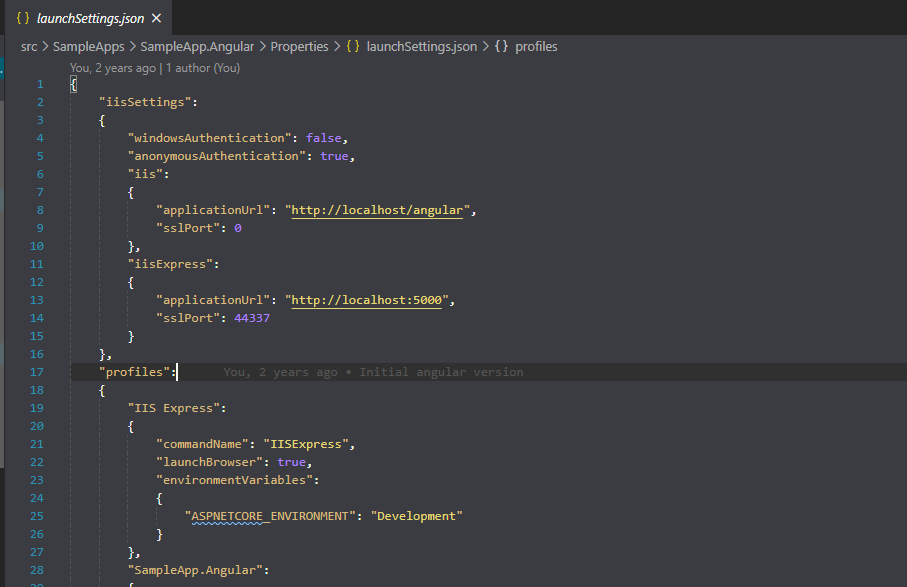
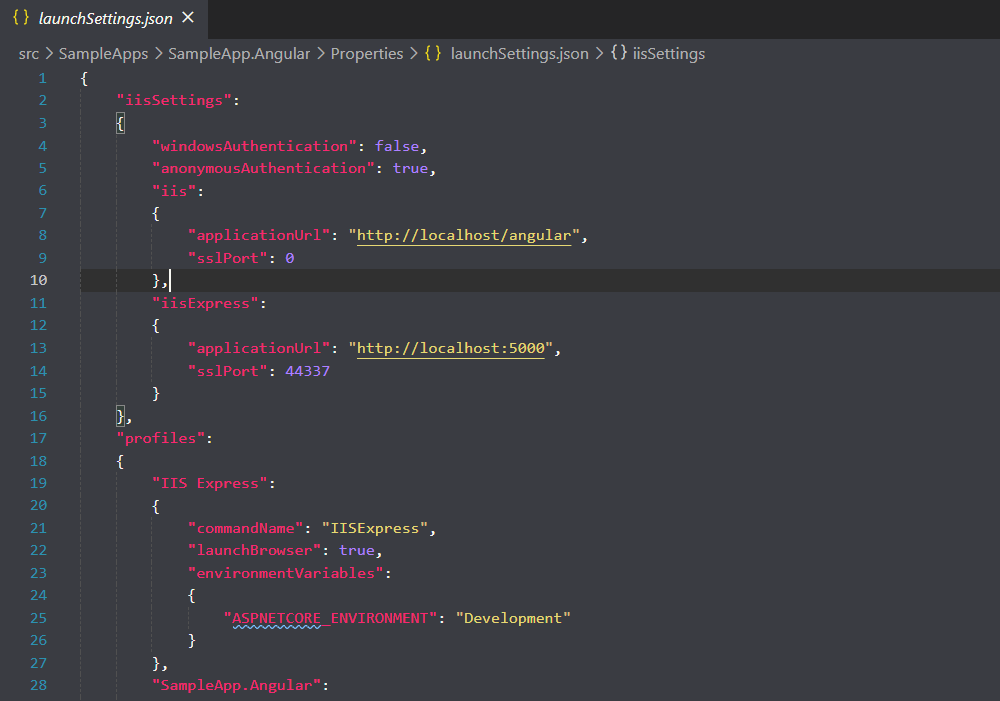
Version, changelog set
Screenshot update

diff --git a/CHANGELOG.md b/CHANGELOG.md
@@ -1,3 +1,8 @@
+## v1.1.0
+
+- YAML syntax colorization
+- JSON entities colorization change
+
 ## v1.0.0
 
 - Readme update
